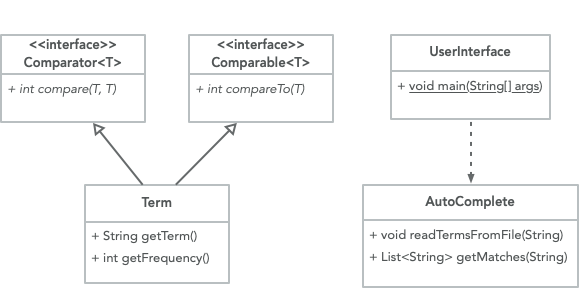
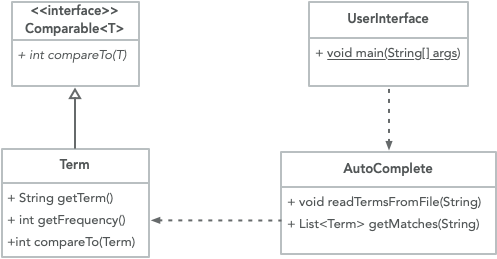
161 calendar thu

Changed region(s): [[0.0, 0.0, 1.0, 1.0], [0.332, 0.5251, 0.3622, 0.5869]]

diff --git a/teaching/cs261/hwk3.ycm/index.md b/teaching/cs261/hwk3.ycm/index.md
@@ -2,7 +2,7 @@
 
 ### Homework 3: You Complete Me
 
-Autocompletion is pervasive in modern applications. As the user types, the program predicts the complete query (typically a word or phrase) that the user intends to type. Autocomplete is most effective when there are a limited number of likely queries. For example, the Internet Movie Database uses it to display the names of movies as the user types; search engines use it to display suggestions as the user enters web search queries; cell phones use it to speed up text input. 
+Auto-completion is a pervasive feature in modern applications. As the user types, the program predicts the complete query (typically a word or phrase) that the user intends to type.  For example, the Internet Movie Database uses it to display the names of movies as the user types; search engines use it to display suggestions as the user enters web search queries; cell phones use it to speed up text input.
 
 <center>
 <IMG SRC="figures/autocomplete-imdb.png"      width = "250" alt = "IMDB search" title = "IMDB search" style="border: 10px solid #d6d6d6" />
@@ -16,7 +16,6 @@ In these examples, the application predicts how likely it is that the user is ty
 #### Student Objectives
 - Designing an object-oriented project from scratch.
 - Reading from files.
-- Catching exceptions.
 - Exposure to interfaces.
 - Implementing the Comparable interface.
 
@@ -29,12 +28,12 @@ The following file(s) have been provided for this homework.
 #### Object-Oriented Design
 We need to start removing the scaffolding that I provide with each assignment in prescribing you the overall structure of the classes.  We'll ease into this over the course of the semester, so we'll start slow --  I'll provide the class diagram below, but you'll need to fill in the rest. You should expect that future assignments might only provide the class diagram, and it's up to you to interpret it. 
 
-- Examine the class diagram given below. (Note the `Comparable`  interface is built into Java, and won't actually show up in your UML diagram.)
+- Examine the class diagram given below. (Note the `Comparable` interface is built into Java, and won't actually show up in your project diagram!)
 
   <img src="figures/AutoHomeworkClassDiag.png" width="500px">
 
 
-- `Term` -- This class encapsulates a term-frequency pair (given as each row in the input file). This class is simple. You only need to provide getters and setters to input/retrieve the term or frequency itself. Objects of this class eventually need to be ordered by decreasing frequency. Therefore, this class needs to implement the `Comparable` interface. (Alternatively, you could implement the `Comparator` interface for this purpose.)
+- `Term` -- This class encapsulates a term-frequency pair (given as each row in the input file). 
 
 - `Autocomplete` -- This is the heart of your project. Among other things, this class stores a list of term-frequency objects and provides functionalities for searching through the list for terms that match the user's "query." Objects of this class must open a given training file and read the file's contents into its list. Because searching through terms ought to be fast, you should add items to its term-frequency  in alphabetical order.
 
@@ -43,23 +42,34 @@ We need to start removing the scaffolding that I provide with each assignment in
 
 #### Instructions
 
-1. The first thing you need to do is to understand the data that I've provided you with. Open the "training file" that comes with this project. Each line represents a term and the number of occurrences (frequencies) of that term, separated by tab. The terms are in no particular ordering. Caution: some the frequencies are too big to store in an `int` variable. I would store those in a `long` instead. You should also only store the lower-case versions of each term.
+0. The first class I'd work on is `Term`.
+   - This class stores just two instance variables -- the term and its corresponding frequency. It needs just one constructor that inputs both of these arguments. You should also provide getter methods for the term and frequency portions, respectively.
 
-2. When the user types in a query, which may be only the prefix of a word of interest, you must search through your list of terms and return a list of all terms whose prefixes match the given prefix. For instance, if the query was How then your List might contain: how, howdy, howl, howling, howitzer, and so on.
+    - Objects of this class need to be ordered by decreasing frequency. Therefore, this class needs to implement the `Comparable<Term>` interface and override the `public int compareTo(Term other)` method. 
 
-3. Just like when you type into Google's search bar, the list that you return would have the "most-likely" match ranked first. To have that same effect, your list of auto-completed terms must be sorted in descending order of the their frequencies. To do this, you should call the `Collections.sort(...)` method prior to printing out the list of matched terms, and if you implemented the `Comparable` interface correctly, your results should be sorted in descending frequency after calling `Collections.sort(...)`.
+1. Next, you need to understand the file that I've provided you with. Open the "training file" called `wiktionary.txt` that comes with this project. Each line represents a term and the number of occurrences (frequencies) of that term, separated by tab. The terms are in no particular ordering. Caution: some the frequencies are too big to store in an `int` variable. I would store those in a `long` instead. You should also only store the lower-case versions of each term.
 
-4. You must provide a `UserInterface` class, that contains a single static method, `public static void main(String[] args)`. If there are other static methods in this class, they must be made private so that they're hidden from the user. The main method should simply instantiate and start your program.
+2. Now work on the `Autocomplete` class. This is the core of your project!
+    - It should store a list of `Term`s.
+    - First, work on the `public void readTermsFromFile(String filename)` method. It should attempt to open the given file and read it line-by-line. You need to parse the information on each line into a term (String) and frequency (long), and create a `Term` object using these. Then put the new `Term` in your list!
+    - You should recall how to read files -- to do this, you can use a `Scanner` object to open the file, but you need to handle the `FileNotFoundException`. If you don't remember how to do this, ask our [AI tutor](https://chatgpt.com/g/g-6865afb2a07481918f072a3db92a74e6-puget-sound-cs-2-tutor)!
+    - Next, work on the `public List<Term> getMatches(String query)`.  When the user types in a "query," which may be only the prefix of a word of interest, you need search through your list of terms and return a list of all terms whose prefixes match the given prefix. For instance, if the query was "How" then your returned list of terms might contain: how, howdy, howl, howling, howitzer, and so on (and since you're returning a list of `Term`s, each term comes with their frequencies too -- that'll be useful soon!)
 
-5. When your program starts,  it should prompt the user for the name of the "training file," (i.e., `wiktionary.txt`). Note that any method that attempts to open a file can't compile until you've thrown or caught a *file not found exception*. The easiest way to do this is to add the following `throws` suffix to your method:
+3. Just like when you type into Google's search bar, the list that you return would have the "most-likely" match ranked first. To have that same effect, your list of auto-completed terms must be sorted in descending order of the their frequencies. To do this, you should call the `Collections.sort(..)` method (you need to first import `java.util.Collections`) prior to printing out the list of matched terms, and if you implemented the `Comparable` interface correctly in `Term`, your results should be sorted in descending frequency after calling `Collections.sort(..)`.
+
+4. Finally, you must provide a `UserInterface` class, that contains a single static method, `public static void main(String[] args)`. If there are other static methods in this class, they must be made private so that they're hidden from the user. The main method should simply instantiate a copy of `Autocomplete` and start your program.
+   - It should continuously prompt the user for a keyword prefix (the query) until the user types `.quit`.
+   - After you scan in a query, call `getMatches()` on it. Sort the returned list and display it!
+
+<!-- 5. When your program starts,  it should prompt the user for the name of the "training file". Note that any method that attempts to open a file can't compile until you've thrown or caught a *file not found exception*. The easiest way to do this is to add the following `throws` suffix to your method:
 
     ```java
-    public void aMethodThatOpensFile() throws FileNotFoundException {
+    public void method-that-opens-file() throws FileNotFoundException {
       // code to open and read a file
     }
     ```
 
-  After reading the training file contents into your list, your then enters an infinite loop, requesting for a  *query* until the user enters `.quit`. After the user types in a query, you extract the last word in the query and use it to do your autocompletion routine. Print out the first 10 matches, if there are that many.
+  After reading the training file contents into your list, your then enters an infinite loop, requesting for a  *query* until the user enters `.quit`. After the user types in a query, you extract the last word in the query and use it to do your autocompletion routine. Print out the first 10 matches, if there are that many. -->
 
 <!--
 5. When your program starts,  it should prompt the user for the name of the "training file," (i.e., `wiktionary.txt`). Your program should then attempt to open this file and read in its contents, but you must use a try-catch clause to handle checked exception `FileNotFoundException` that is thrown. As long as the file cannot be opened, re-prompt the user for the name of the file. Your program should not move on until this is resolved. After reading the training file contents into your list, your then enters an infinite loop, requesting for a *query* until the user enters `.quit`. After the user types in a query, you extract the last word in the query and use it to do your autocompletion routine. Print out the first 10 matches, if there are that many.

diff --git a/teaching/cs261/changelog.md b/teaching/cs261/changelog.md
@@ -1,8 +1,8 @@
 # Note to self
 - Insist that final exams are cumulative
+- Gotta stop telling students that CS 261 is a litmus test for whether you'll like the major. Things change from CS 261.
 
 # TODO
-- Gotta stop telling students that CS 261 is a litmus test for whether you'll like the major. Things change from CS 261.
 
 - Need better assignments. Elizabeth says that things really stopped lining up
 with what we were learning: no BST assignment, RCV assignment is no good. Want more
@@ -11,11 +11,6 @@ scaffolding.
 - Replace Hwk 5 RCV with MelodyPlayer
 
 - Need more code along labs! Maybe start all labs as code alongs?
-
-- Some confusion in Hwk 2: TTT - Insist that they keep a list of known open coordinates
-    - Should I spend a bit of time in lecture to talk about 2D arrays (yes)?
-    - In Player? In RandomPlayer?
-    - What about Coords? Was it obvious that they needed to store them somehow?
 
 - Replace RG1 and RG1 sol (no more exceptions)
 
